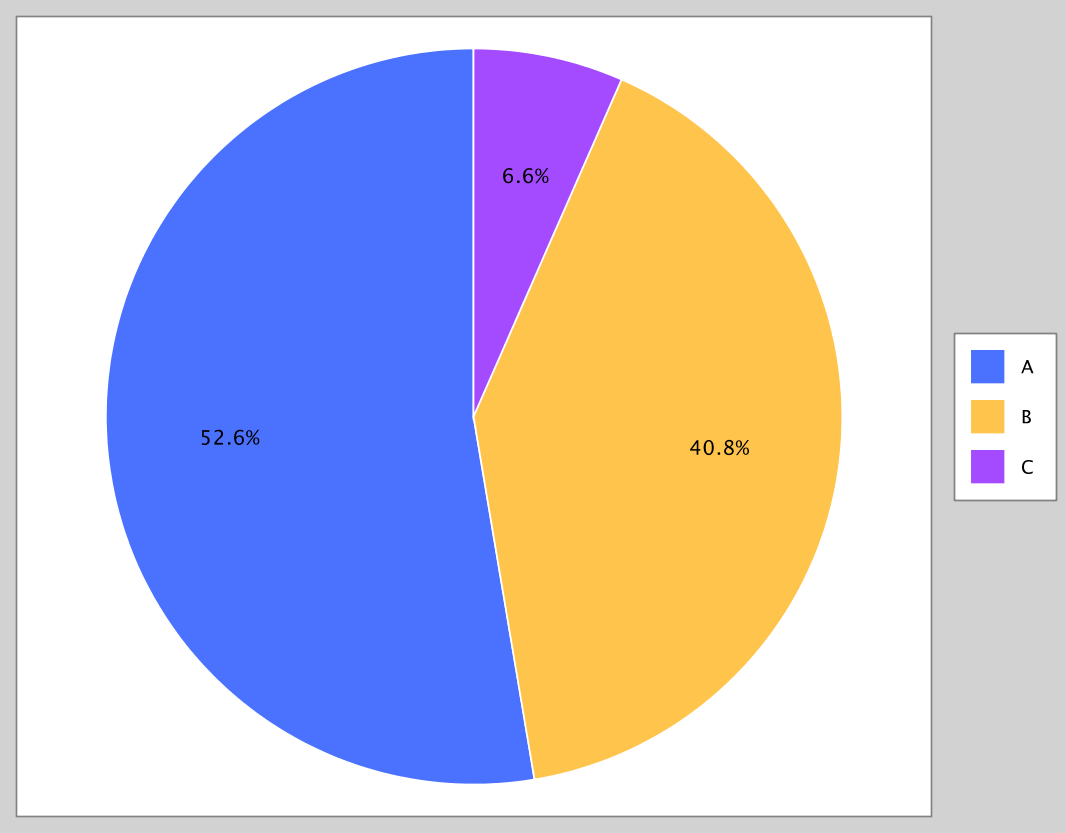
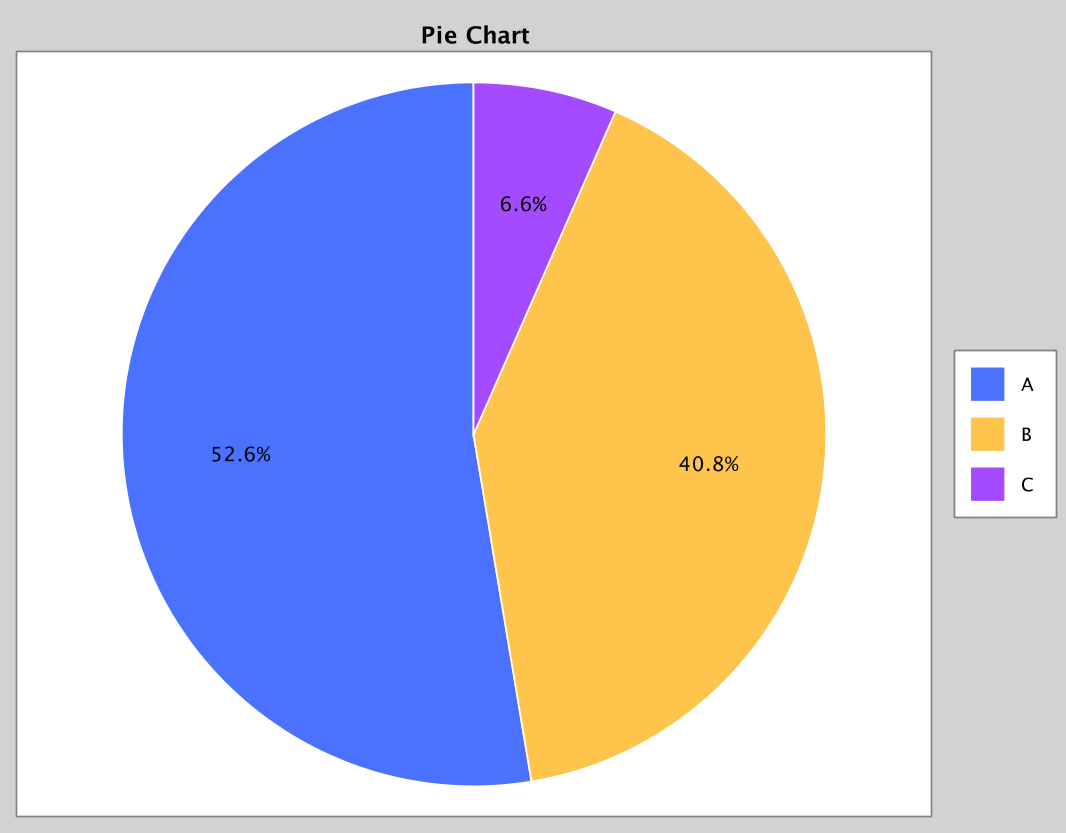
improved README pie chart

diff --git a/README.md b/README.md
@@ -504,7 +504,9 @@ classpath:
       (xchart/pie-chart
          { "A" 400
            "B" 310
-           "C" 50 } )
+           "C" 50 } 
+         { :title "Pie Chart"
+           :theme :xchart } )
       :png ;; write as PNG
       120  ;; render with 120 dpi
       (. :java.io.File :new "pie-chart.png")))
